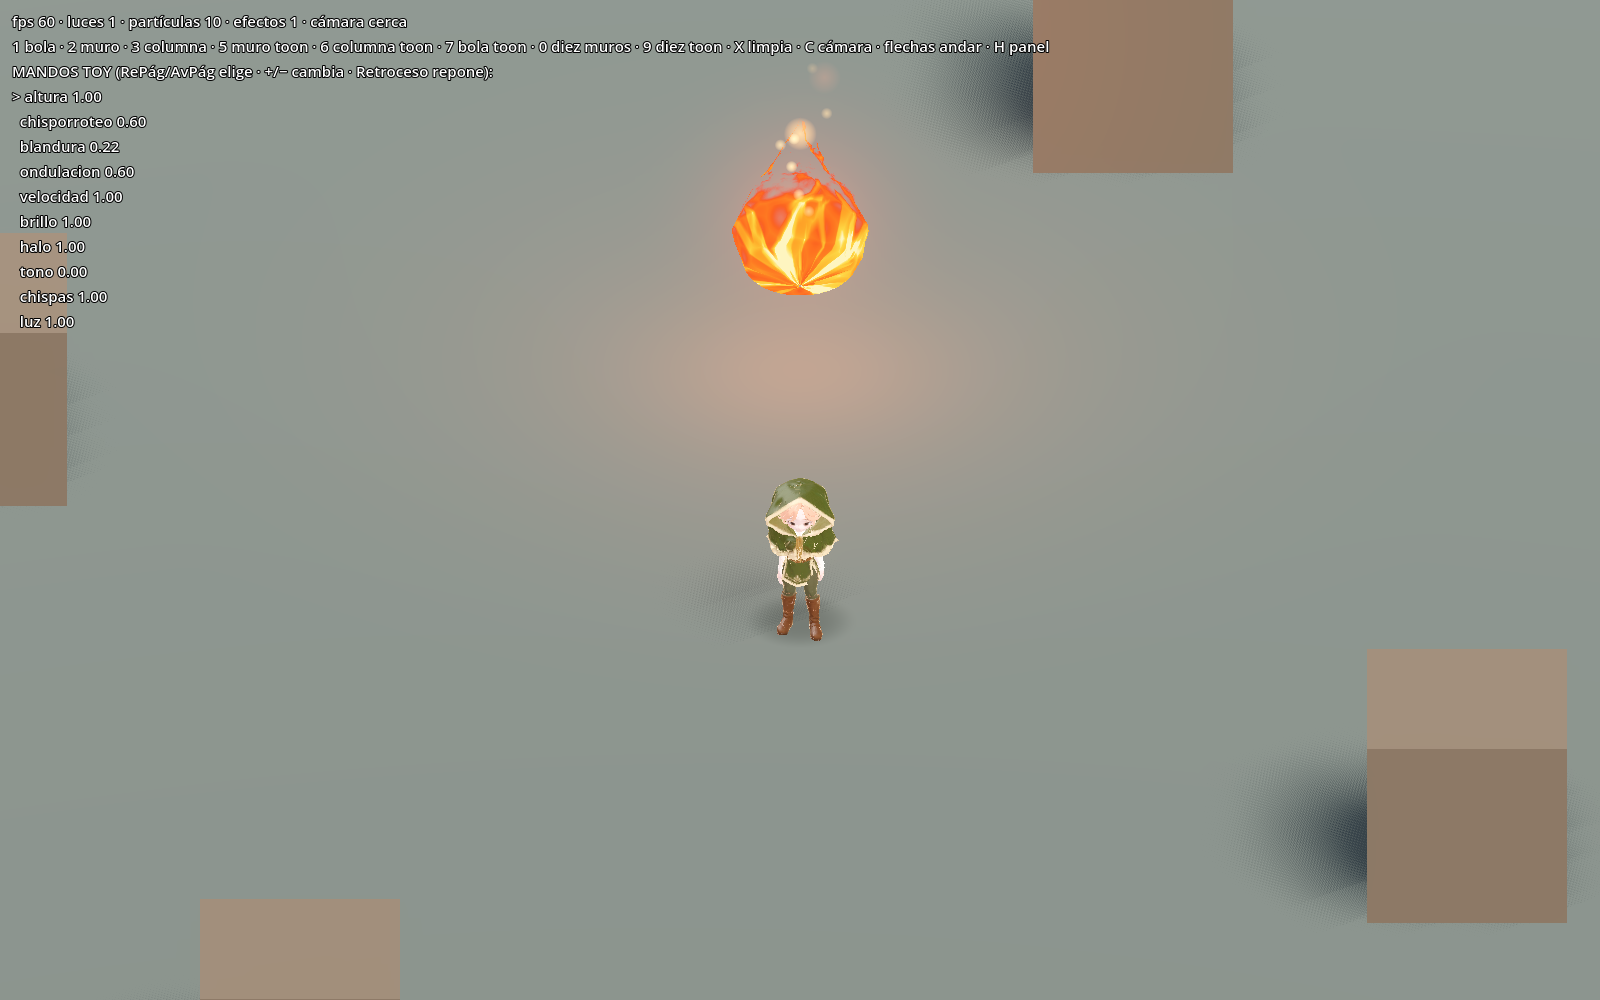
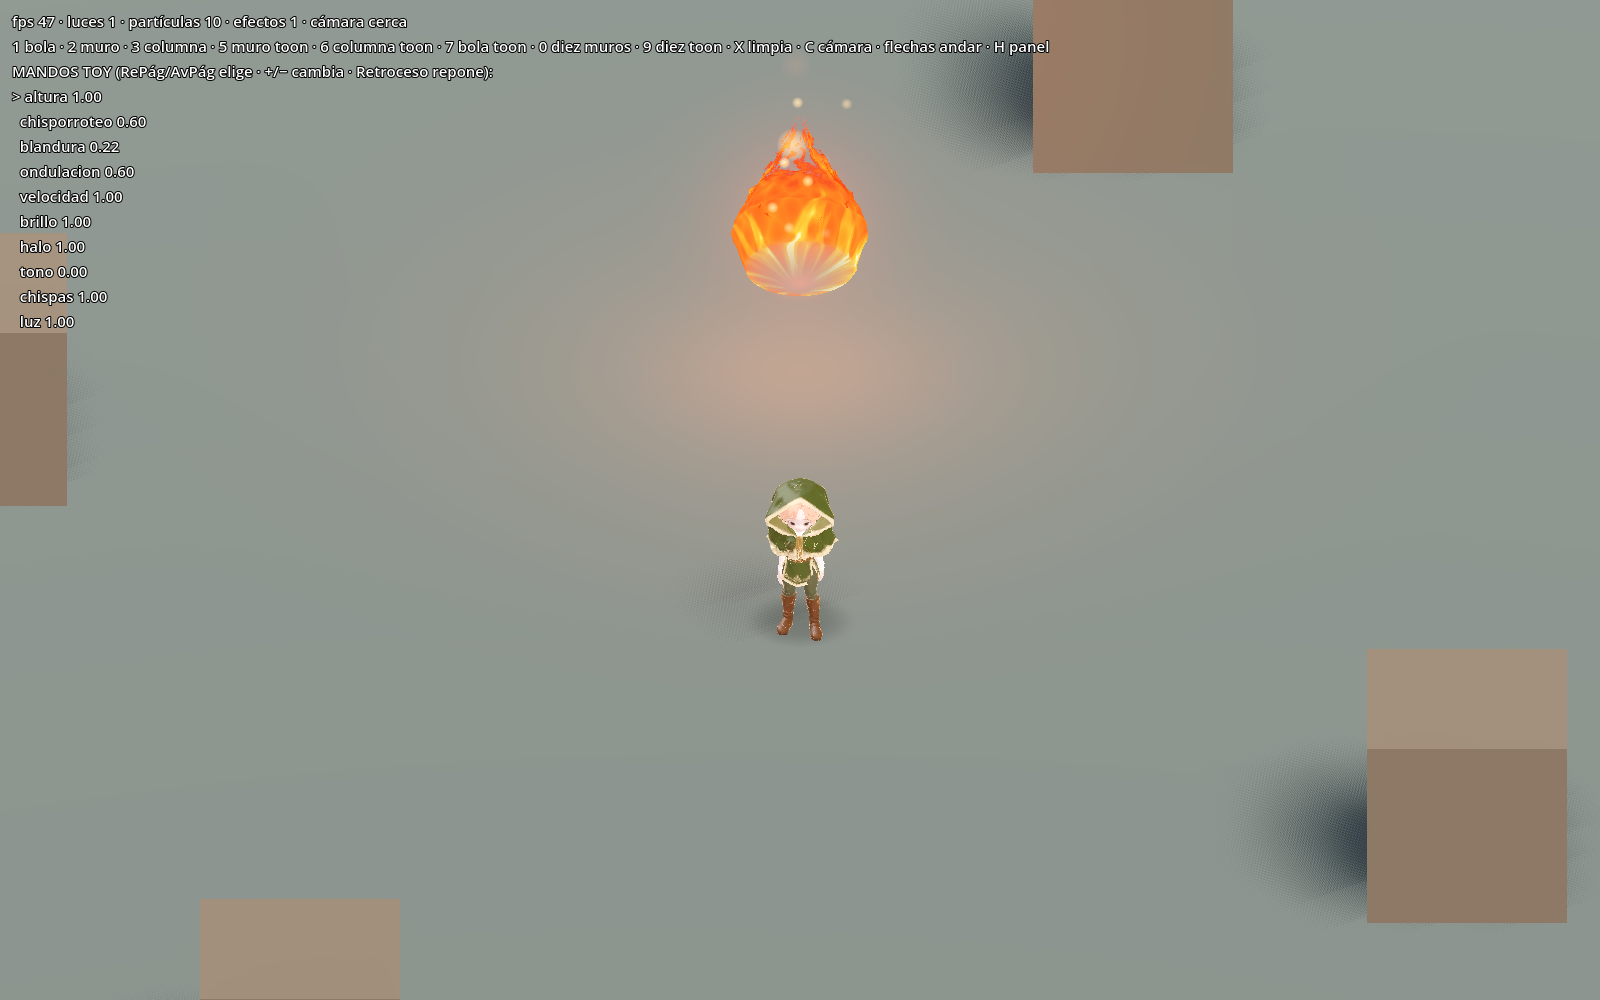
Prueba 3 de VFX en Godot, ronda 5: bola sin estrella ni facetas; capturas y GIF, NOTAS, diario 304

Changed region(s): [[0.4375, 0.093, 0.5625, 0.31]]

diff --git a/docs/capturas/comparativa_vfx/godot_toy/NOTAS.md b/docs/capturas/comparativa_vfx/godot_toy/NOTAS.md
@@ -132,3 +132,13 @@ Pablo: la dirección de la ronda 3 vale; solo pulido. Las capturas y GIF de la r
 **Medida de tonos** (rojo-naranja / naranja / amarillo; objetivo 15–30 / 50–65 / ≤ 20): `muro_cerca` 17 / 60 / 23 % (ronda 3: 16 / 68 / 16), `bola_cerca` 22 / 58 / 21 % (ronda 3: 32 / 62 / 7). Amarillo un poco por encima del 20 % en ambos (la bola por el núcleo aditivo; `muro_juego` y `bola_juego`, con muy pocos píxeles de fuego, dan 29 y 25 % de amarillo).
 
 **Resultados.** Diez muros a 1920 × 1080: **638 fps** sin vsync (540 en la ronda 3; la banda tiene menos mallas). Prueba sin ventana a 0 fallos. Capturas y GIF rehechos de bola, `bola_vuelo` y muro (pilar, barrera e impacto no se tocaron). Notas propias: bola 4 (una sola llama; le falta que el cuerpo sea menos liso y que no se vea la estrella de la base), muro 4,5. Reloj de la ronda: 20:45 – 20:55, ≈ 10 min.
+
+## Ronda 5 (1/11): la bola, sin estrella ni facetas
+
+Pablo: en `bola_cerca` se veía una estrella de meridianos en la base (las lenguas convergían al polo) y la superficie parecía una gema low-poly. Solo la bola; capturas y GIF anteriores en `ronda4/`.
+
+**Cambios.** (1) La gota se queda abierta abajo (radio 0,07, ya no 0,01) y su base se funde: nuevo uniform `fade_base` (alfa de 0 a 1 entre V = 0 y 0,2), más un disco aditivo naranja-rojo pequeño debajo (`Base`) que tapa el hueco; (2) 64 segmentos alrededor y 40 anillos de altura (antes 32 y 18) y uniform `vert_polo` = 1, que lleva a 0 el desplazamiento de vértices hacia la punta (el cuerpo tiene la silueta redonda; el desplazamiento ya era 0 en la base); (3) segundo ruido más fuerte en el cuerpo (`peso_ruido` 0,55 con 3 × 1,6 repeticiones) y la rampa más baja (`escala_rampa` 0,75) para que el cuerpo sea naranja y no crema. Probado en el camino: con el ruido al 0,85 el cuerpo se agujereaba como un queso (celdas del ruido); con `fade_base` 0,42 la mitad de abajo quedaba pálida y translúcida; 0,2 es el punto.
+
+**Comprobación** (vistas desde arriba, de lado y desde el suelo en el lab, más `bola_cerca`, `bola_juego` y `bola_vuelo`): sin facetas, silueta redonda y una sola; la estrella ya no se ve como estrella, queda un abanico muy tenue en el borde de abajo (visible solo desde abajo o a 2 m, y fundido).
+
+**Tonos** (`bola_cerca`; objetivo 15–30 / 50–65 / ≤ 20): 18 / 76 / 6 % (ronda 4: 22 / 58 / 21): demasiado naranja y poco amarillo, el cuerpo es ahora casi plano de color; el núcleo claro se ve poco. Prueba sin ventana: 0 fallos. Nota propia de la bola: 4,5 (cuerpo liso, una sola llama; le falta un núcleo más claro). Reloj: 20:49 – 21:00, ≈ 11 min.

diff --git a/docs/DIARIO.md b/docs/DIARIO.md
@@ -4403,3 +4403,5 @@ Ronda 2 de la 304 (Godot, prueba 3): Pablo vio las capturas («la mejor prueba d
 Ronda 3 de la 304 (Godot, prueba 3): los cinco efectos rehechos con el método del tutorial de Le Lu (texturas de su pack gratuito en `assets/vfx/lelu_noise/`, contenido ajeno anotado): mallas de revolución abiertas por código, lenguas que suben, segundo ruido, gradiente que erosiona, `smoothstep` con blandura media, rampa 1D roja-naranja-amarilla y vértices desplazados; muro de 7 cilindros, barrera esfera con el mismo shader. Tonos rojo-naranja/naranja/amarillo en muro 16/68/16, pilar 26/57/17, bola 32/62/7, barrera 38/48/14 (casi en la horquilla); notas propias 4 / 4 / 4,5 / 3,5 / 4; 540 fps con diez muros; escenas de la ronda 2 guardadas como `*_r2`. Prueba a 0 fallos.
 
 Ronda 4 de la 304 (Godot, prueba 3): pulido pedido por Pablo. Bola con una sola silueta (exterior `cull_back`, núcleo como halo aditivo, malla cerrada abajo) y muro como una sola banda de sección rectangular redondeada de 6,9 × 0,6 m, sin círculos ni huecos; tonos muro 17/60/23, bola 22/58/21; diez muros a 638 fps; prueba a 0 fallos.
+
+Ronda 5 de la 304 (Godot, prueba 3): la bola sin estrella en la base ni facetas (gota abierta con base fundida y disco aditivo, 64 × 40 segmentos, desplazamiento de vértices a 0 en la punta, segundo ruido en el cuerpo); tonos 18/76/6; prueba a 0 fallos.
